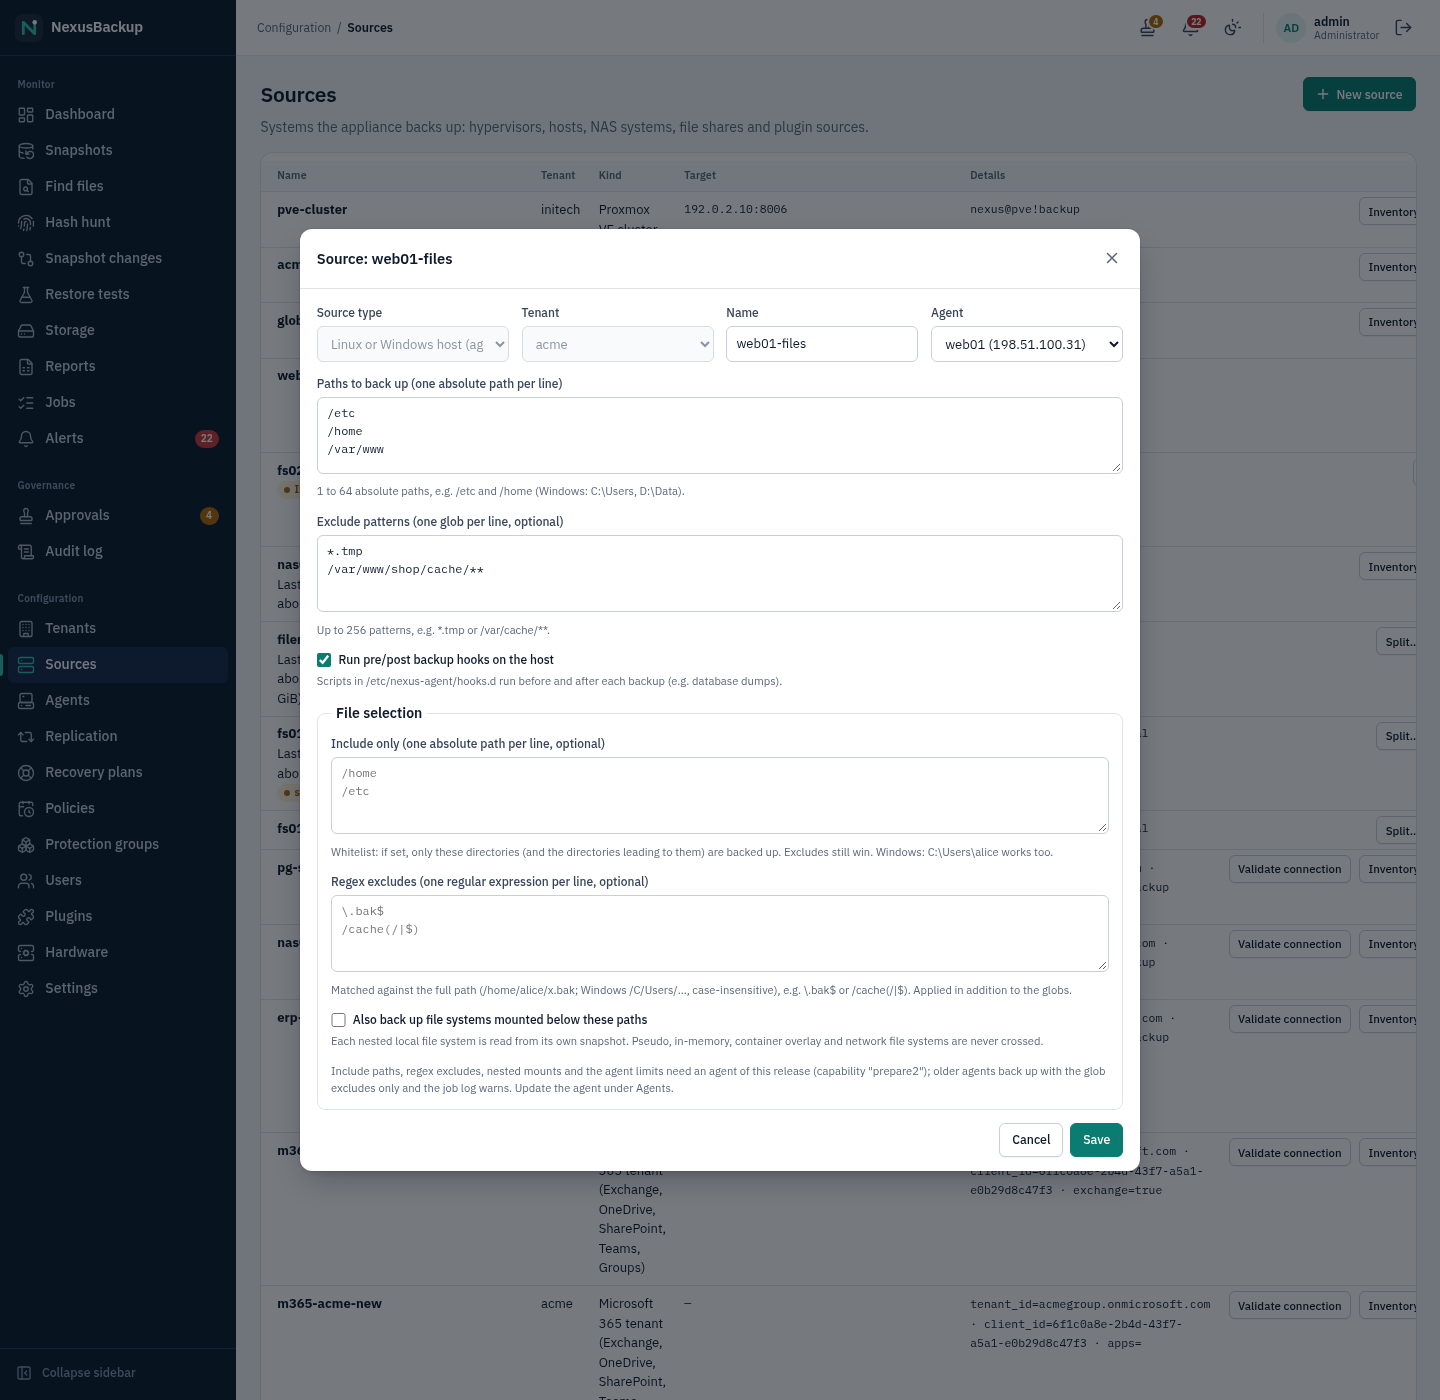
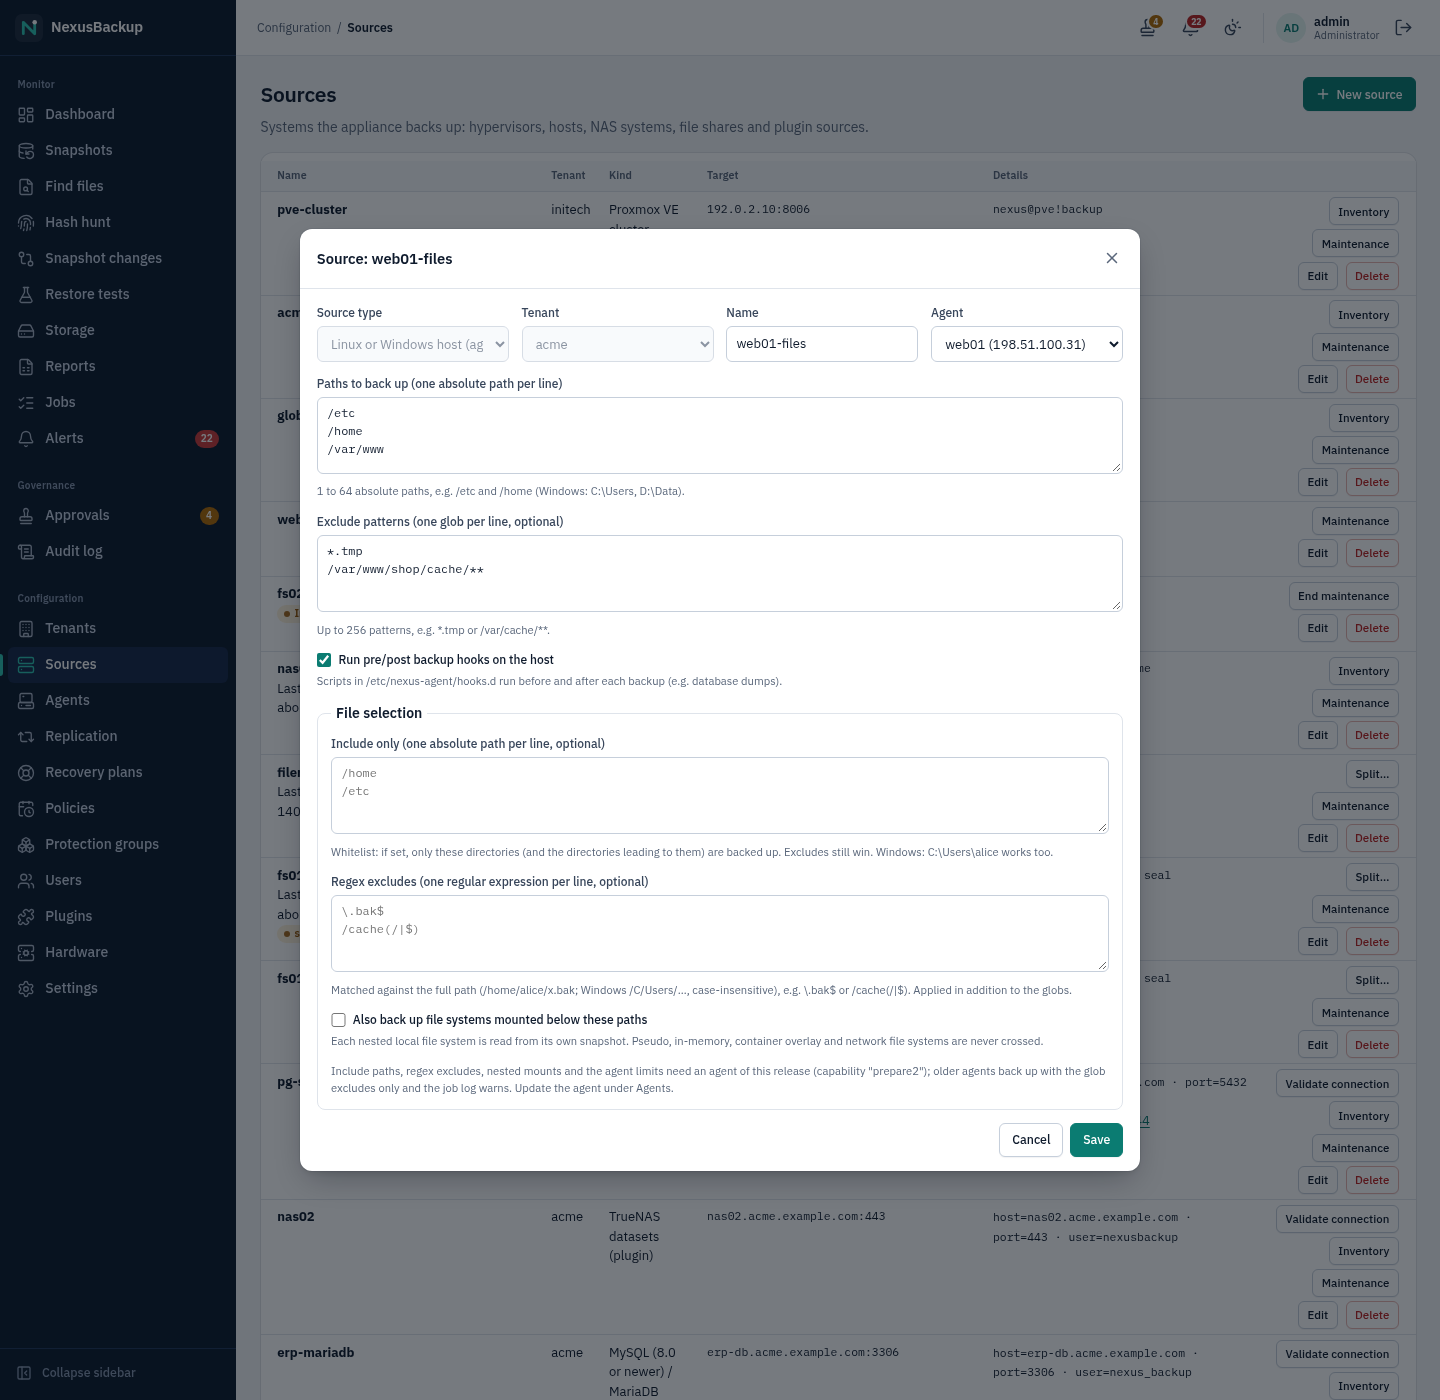
UI: row buttons wrap instead of being cut off at the right edge of wide tables

diff --git a/web/src/app.css b/web/src/app.css
@@ -793,11 +793,19 @@ td.mono {
 td.mono.details {
   white-space: normal;
 }
+/* row buttons: on one line when there is room, wrapped (never cut off) when the table is tight */
 td.actions {
-  white-space: nowrap;
+  white-space: normal;
   text-align: right;
-  padding-top: 0.35rem;
-  padding-bottom: 0.35rem;
+  min-width: 6rem;
+  padding-top: 0.2rem;
+  padding-bottom: 0.2rem;
+}
+td.actions > button,
+td.actions > a.button {
+  white-space: nowrap;
+  margin-top: 0.15rem;
+  margin-bottom: 0.15rem;
 }
 .field-label {
   display: block;
